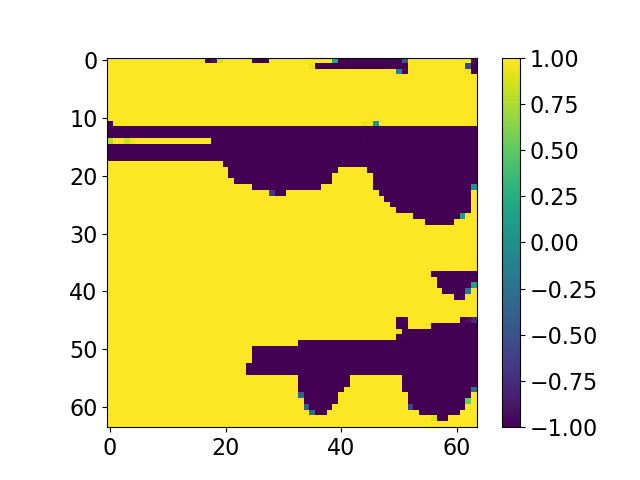
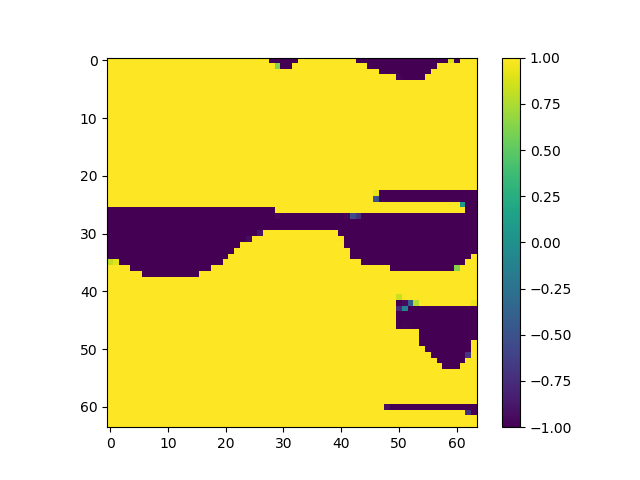
Added new setup

diff --git a/setup_run.py b/setup_run.py
@@ -11,7 +11,7 @@ import csv
 def main_script():
     # np.random.seed(100)
     np.random.seed(0)
-    numpy_input = np.load('../gan-geosteering/saves/chosen_realization_C1.npz')
+    numpy_input = np.load('../gan-geosteering/saves/chosen_realization_C1_6.npz')
     numpy_single = numpy_input['arr_0']
     m_true = numpy_single.copy()
 
@@ -37,6 +37,9 @@ def main_script():
         for el in keys['bit_pos']:
             writer.writerow([str(el)])
 
+    numpy_input = np.load('../gan-geosteering/saves/chosen_realization_C1.npz')
+    numpy_single = numpy_input['arr_0']
+    m_true = numpy_single.copy()
     mean_f = m_true * 0.25
     mean_f[20:44] = 0.
     np.savez('mean_field.npz', mean_f)
